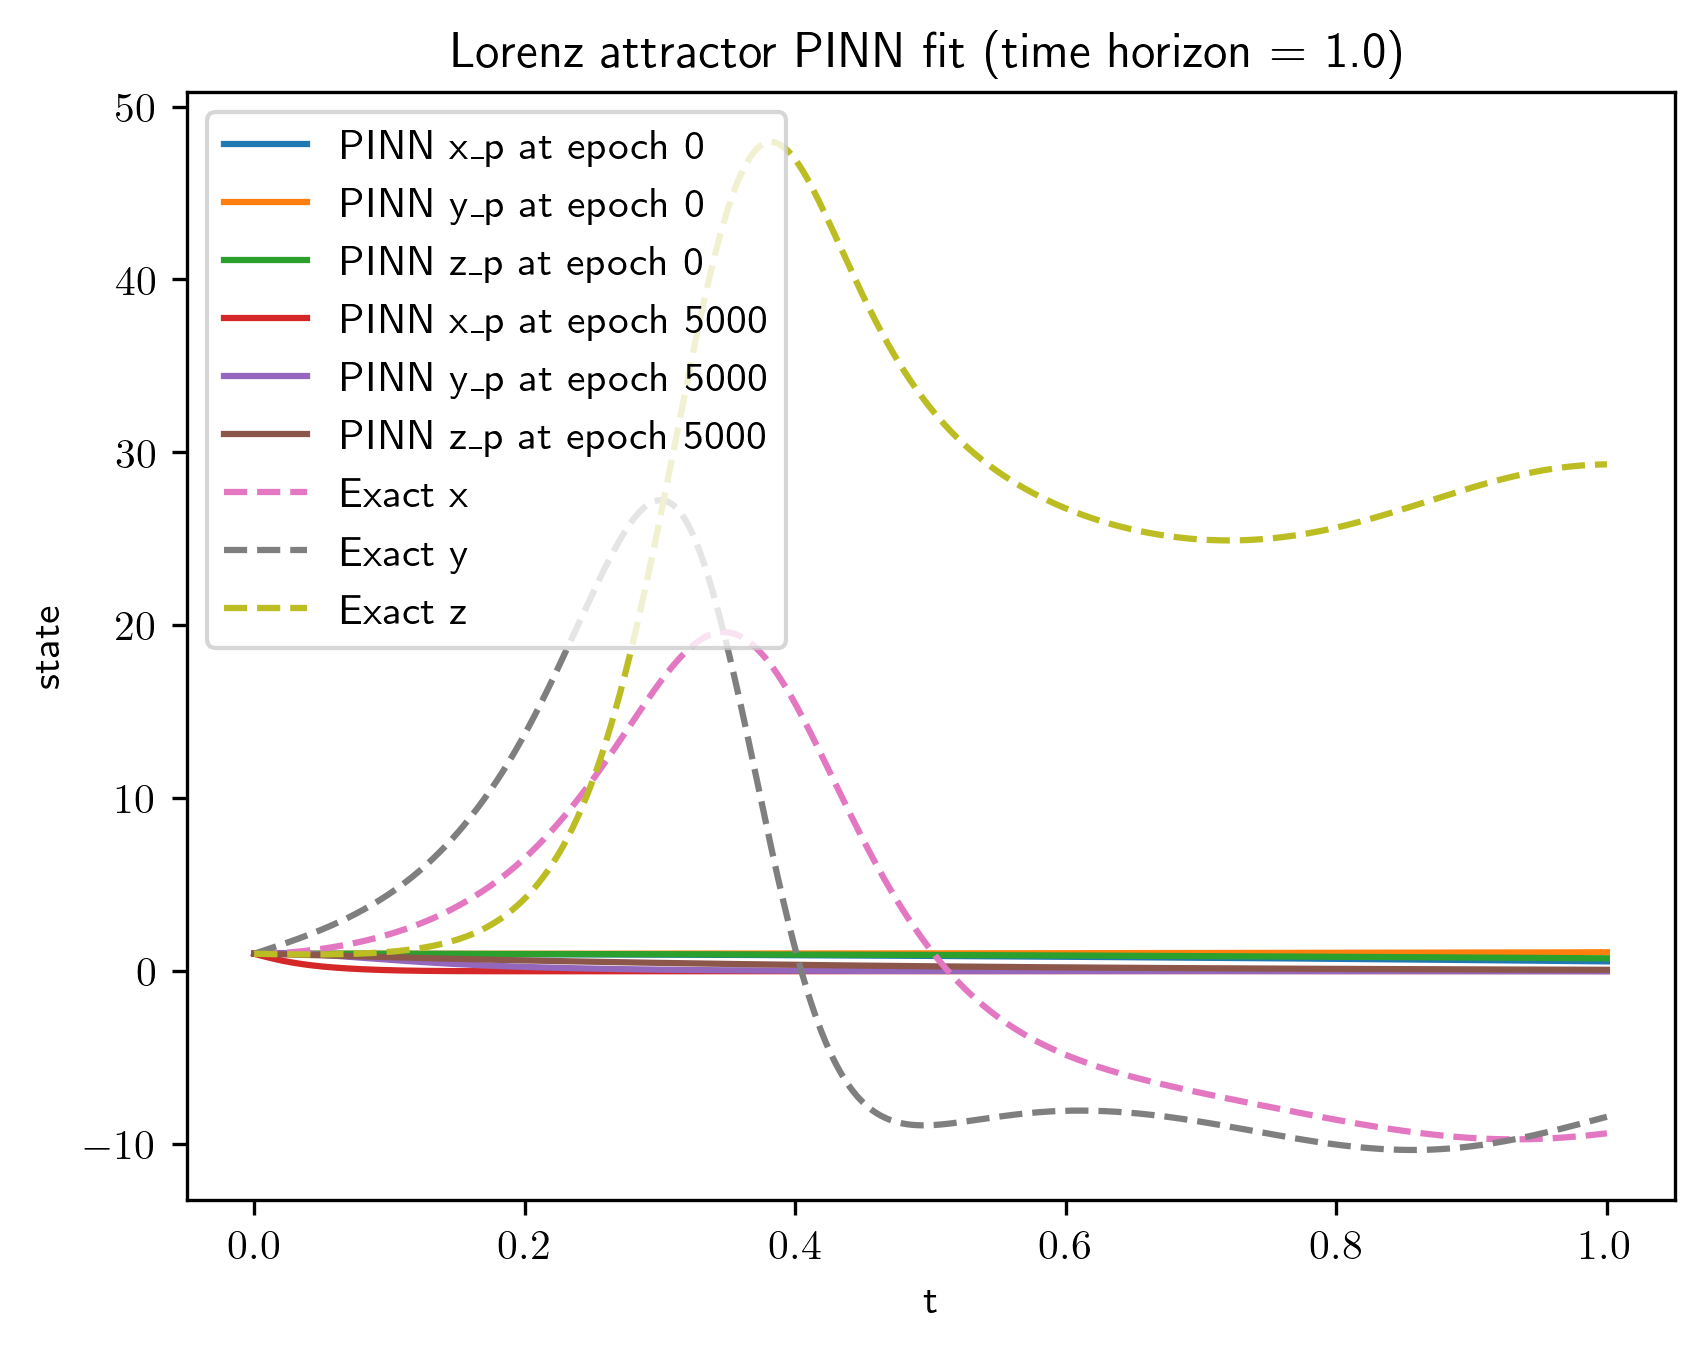
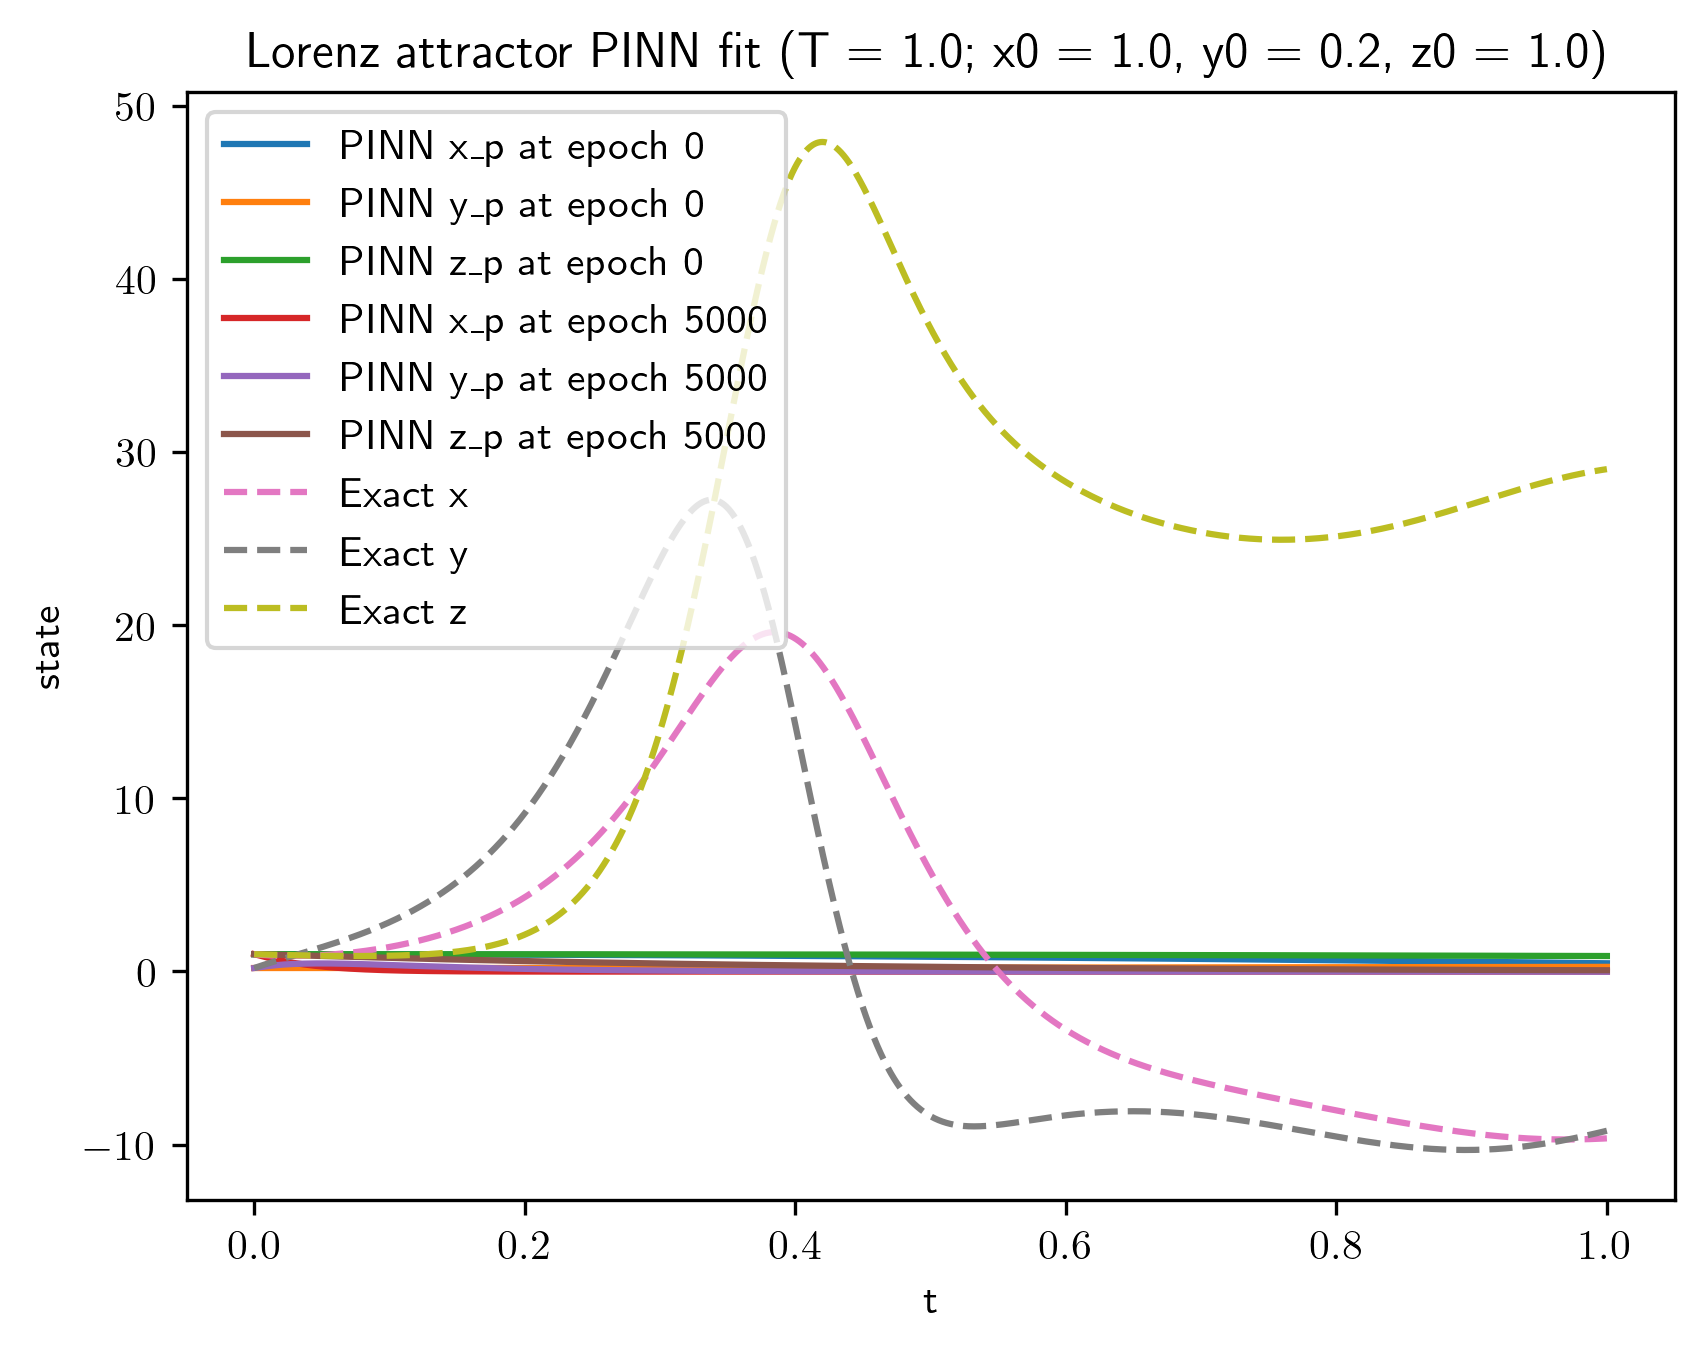
fix: lorenz ODE now converges to correct goal

diff --git a/lorenz.py b/lorenz.py
@@ -89,9 +89,9 @@ if __name__ == "__main__":
     sigma = 10
     rho = 28
     beta = 8/3
-    time_horizon = 0.3
+    time_horizon = 1.0
     x0 = 1.0
-    y0 = 1.0
+    y0 = 0.2
     z0 = 1.0
     epochs = 5000
     print_every = 500
@@ -147,7 +147,7 @@ if __name__ == "__main__":
     plt.plot(t, z, "--", label="Exact z")
     plt.xlabel("t")
     plt.ylabel("state")
-    plt.title(f"Lorenz attractor PINN fit (time horizon = {time_horizon})")
+    plt.title(f"Lorenz attractor PINN fit (T = {time_horizon}; x0 = {x0}, y0 = {y0}, z0 = {z0})")
     plt.legend()
 
     os.makedirs("figures", exist_ok=True)